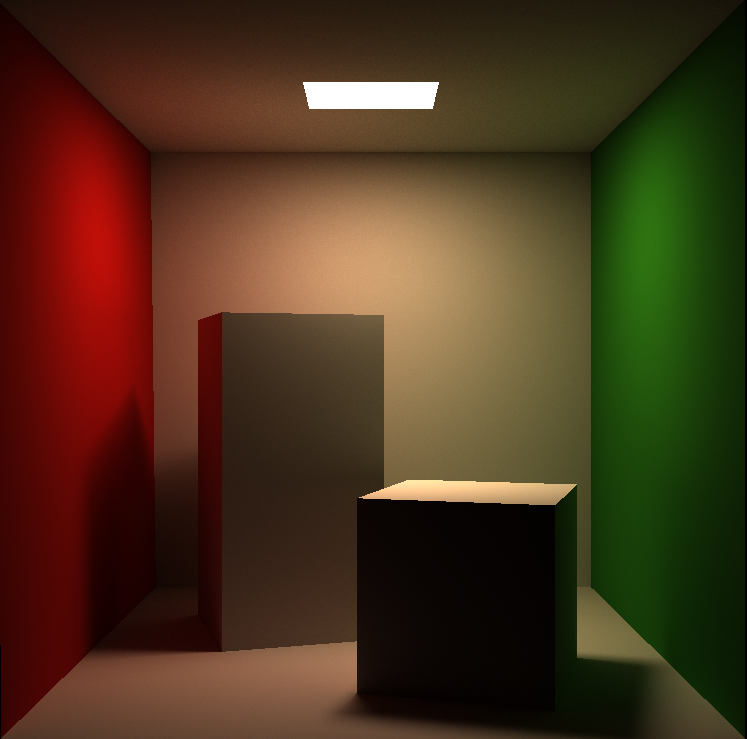
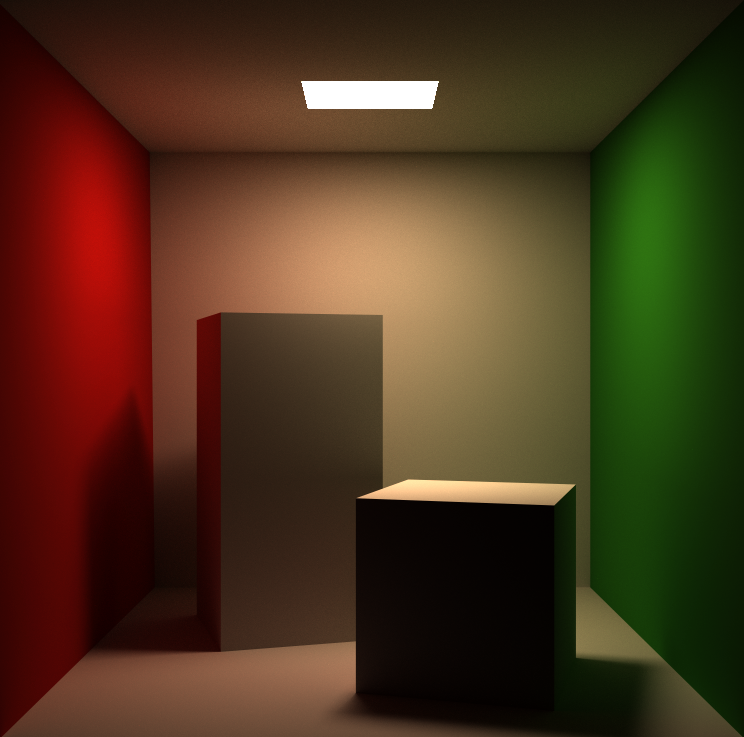
fix the aliasing of path tracing

diff --git a/src/engine/renderer/raytracer.hpp b/src/engine/renderer/raytracer.hpp
@@ -41,13 +41,13 @@ public:
         auto start = std::chrono::steady_clock::now();
         for (int j = 0; j < view_height; ++j) {
             for (int i = 0; i < view_width; ++i) {
-                // 相机发出的光线
-                auto ray = scene.camera->biuRay(i, j);
-                auto fixed = this->mode == RenderMode::WHITTED_STYLE ? Vector3{ 1, 1, -1 } : Vector3{ -1, 1, 1 };
-                ray.dir = ray.dir.mut(fixed);
                 // 利用光线弹射着色函数返回颜色信息
                 Vector3 pixel_color{};
                 for (int k = 0; k < spp; ++k) {
+                    // 相机发出的光线
+                    auto ray = scene.camera->biuRay(i, j);
+                    auto fixed = this->mode == RenderMode::WHITTED_STYLE ? Vector3{ 1, 1, -1 } : Vector3{ -1, 1, 1 };
+                    ray.dir = ray.dir.mut(fixed);
                     pixel_color += cast_ray(ray, 0) / spp;
                 }
                 // 将像素写入帧缓存

diff --git a/src/engine/component/camera.hpp b/src/engine/component/camera.hpp
@@ -150,8 +150,8 @@ public:
     biuRay(int i, int j) const {
         Ray ray{};
         numberType scale = std::tan(fovY / 2);
-        numberType x = (2 * ((i + 0.5) / view_width) - 1) * scale * aspect_ratio;
-        numberType y = (1 - 2 * ((j + 0.5) / view_height)) * scale;
+        numberType x = (2 * (i + MathUtils::getRandNum()) / view_width - 1) * scale * aspect_ratio;
+        numberType y = (1 - 2 * (j + MathUtils::getRandNum()) / view_height) * scale;
         ray.dir = Vector3{ x, y, 1 }.normalize();
         ray.pos = eye_pos;
         return ray;

diff --git a/src/engine/tool/utils.hpp b/src/engine/tool/utils.hpp
@@ -79,11 +79,10 @@ struct MathUtils {
     }
 
     // 获取随机数
-    static numberType getRandNum() {
+    static numberType getRandNum(numberType l = 0.0, numberType r = 1.0) {
         static std::random_device dev;
         static std::mt19937 rng(dev());
-        // distribution in range [1, 6]
-        static std::uniform_real_distribution<numberType> dist(0.0, 1.0);
+        static std::uniform_real_distribution<numberType> dist(l, r);
         return dist(rng);
     }
 };
